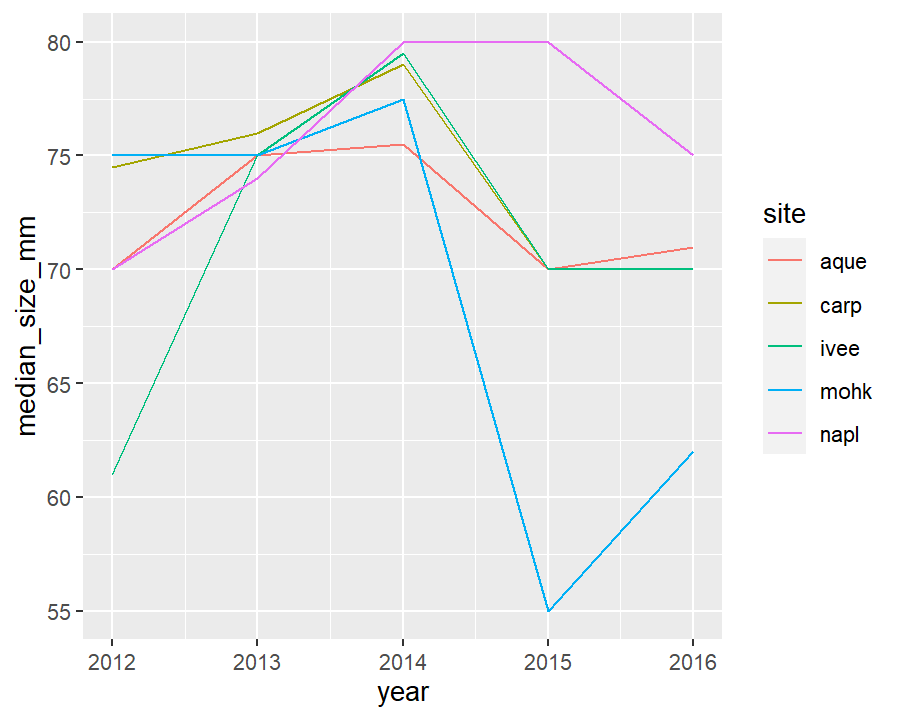
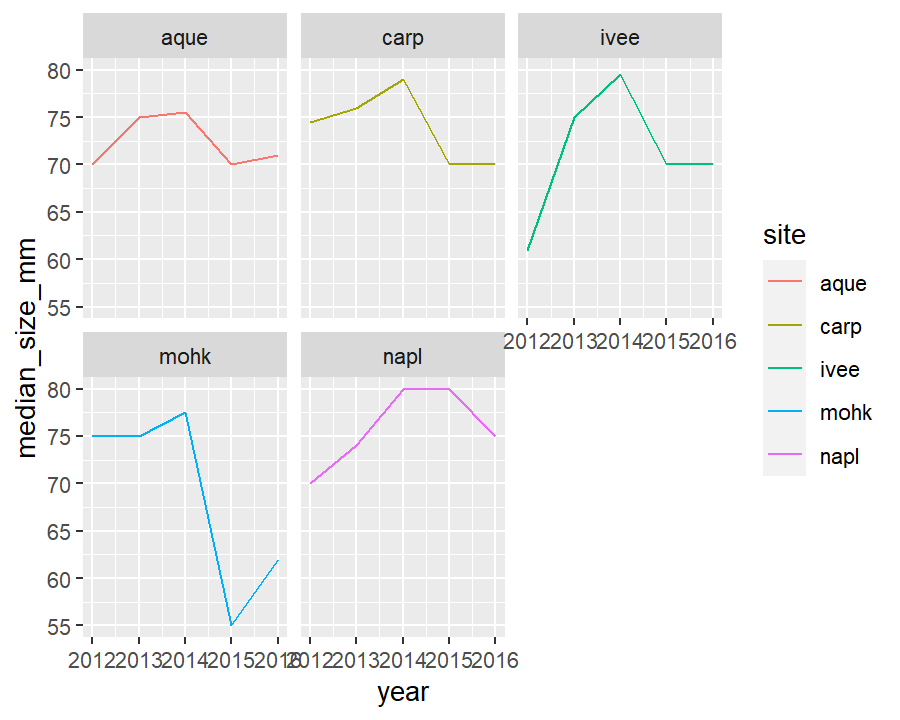
Made graph faceted

diff --git a/pivot_lobsters.html b/pivot_lobsters.html
@@ -806,6 +806,29 @@ size_mm
 ## 10 carp   2016               231         68.9      12.5 
 ## # ... with 15 more rows</code></pre>
 </div>
+<div id="include-a-median-with-our-new-variable" class="section level2">
+<h2>Include a median with our new variable</h2>
+<pre class="r"><code>siteyear_summary &lt;- lobsters %&gt;%
+  group_by(site, year) %&gt;%
+  summarize(count_by_siteyear =  n(),
+            mean_size_mm = mean(size_mm, na.rm=TRUE),
+            sd_size_mm = sd(size_mm, na.rm=TRUE),
+            median_size_mm = median(size_mm, na.rm = TRUE)
+  )</code></pre>
+<pre><code>## `summarise()` has grouped output by &#39;site&#39;. You can override using the `.groups` argument.</code></pre>
+</div>
+<div id="make-a-graph-with-our-new-variable" class="section level2">
+<h2>Make a graph with our new variable</h2>
+<pre class="r"><code>ggplot(data = siteyear_summary, 
+       aes(x = year, y = median_size_mm, color = site)) +
+       geom_line() +
+       facet_wrap(~site)</code></pre>
[1 lines of base64/hex data omitted]
+</div>
+<div id="saving-and-exporting-the-most-recently-run-ggplot-graph-with-added-dimensions" class="section level2">
+<h2>Saving and exporting the most recently run ggplot graph with added dimensions</h2>
+<pre class="r"><code>ggsave(here(&quot;figures&quot;, &quot;medlobsite_graph.png&quot;), dpi = 180, width = 5, height = 4)</code></pre>
+</div>
 
 
 
